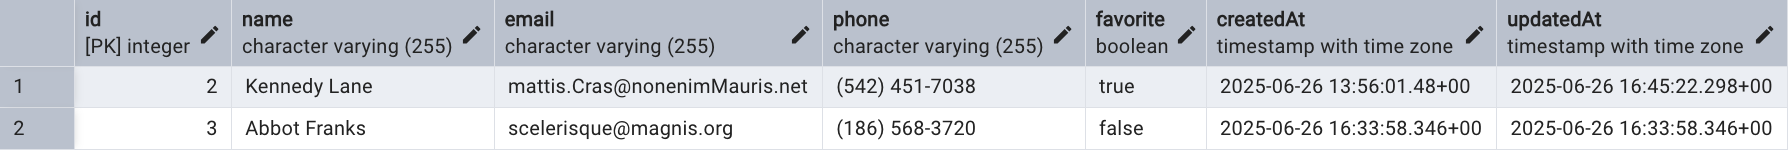
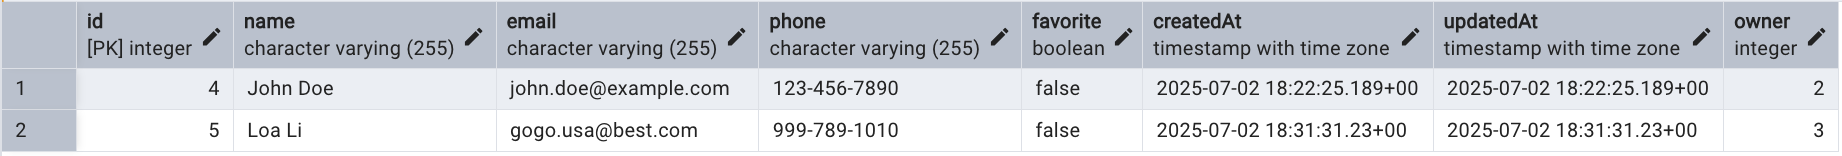
add auth middleware, logout, and current user endpoints

diff --git a/controllers/contactsControllers.js b/controllers/contactsControllers.js
@@ -9,22 +9,25 @@ import HttpError from "../helpers/HttpError.js";
 import controllerWrapper from "../helpers/controllerWrapper.js";
 
 const getAllContacts = async (req, res) => {
-  const contacts = await Contact.findAll();
-  res.status(200).json(contacts);
+  const { id: owner } = req.user;
+  const result = await Contact.findAll({ where: { owner } });
+  res.json(result);
 };
 
 const getOneContact = async (req, res) => {
   const { id } = req.params;
-  const contact = await Contact.findByPk(id);
-  if (!contact) {
+  const { id: owner } = req.user;
+  const result = await Contact.findOne({ where: { id, owner } });
+  if (!result) {
     throw HttpError(404, "Not found");
   }
-  res.status(200).json(contact);
+  res.json(result);
 };
 
 const deleteContact = async (req, res) => {
   const { id } = req.params;
-  const contact = await Contact.findByPk(id);
+  const { id: owner } = req.user;
+  const contact = await Contact.findOne({ where: { id, owner } });
   if (!contact) {
     throw HttpError(404, "Not found");
   }
@@ -38,7 +41,8 @@ const createContact = async (req, res) => {
     throw HttpError(400, error.message);
   }
   const { name, email, phone } = req.body;
-  const newContact = await Contact.create({ name, email, phone });
+  const { id: owner } = req.user;
+  const newContact = await Contact.create({ name, email, phone, owner });
   res.status(201).json(newContact);
 };
 
@@ -51,7 +55,8 @@ const updateContact = async (req, res) => {
     throw HttpError(400, error.message);
   }
   const { id } = req.params;
-  const contact = await Contact.findByPk(id);
+  const { id: owner } = req.user;
+  const contact = await Contact.findOne({ where: { id, owner } });
   if (!contact) {
     throw HttpError(404, "Not found");
   }
@@ -66,8 +71,9 @@ const updateStatusContact = async (req, res) => {
   }
   const { id } = req.params;
   const { favorite } = req.body;
+  const { id: owner } = req.user;
 
-  const contact = await Contact.findByPk(id);
+  const contact = await Contact.findOne({ where: { id, owner } });
 
   if (!contact) {
     throw HttpError(404, "Not found");

diff --git a/routes/contactsRouter.js b/routes/contactsRouter.js
@@ -1,18 +1,21 @@
 import express from "express";
+import authenticate from "../middleware/authenticate.js";
 import contactsController from "../controllers/contactsControllers.js";
 
-const contactsRouter = express.Router();
+const router = express.Router();
 
-contactsRouter.get("/", contactsController.getAllContacts);
+router.use(authenticate);
 
-contactsRouter.get("/:id", contactsController.getOneContact);
+router.get("/", contactsController.getAllContacts);
 
-contactsRouter.delete("/:id", contactsController.deleteContact);
+router.get("/:id", contactsController.getOneContact);
 
-contactsRouter.post("/", contactsController.createContact);
+router.delete("/:id", contactsController.deleteContact);
 
-contactsRouter.put("/:id", contactsController.updateContact);
+router.post("/", contactsController.createContact);
 
-contactsRouter.patch("/:id/favorite", contactsController.updateStatusContact);
+router.put("/:id", contactsController.updateContact);
 
-export default contactsRouter;
+router.patch("/:id/favorite", contactsController.updateStatusContact);
+
+export default router;

diff --git a/middleware/authenticate.js b/middleware/authenticate.js
@@ -1,0 +1,30 @@
+import jwt from "jsonwebtoken";
+import User from "../db/Users.js";
+import HttpError from "../helpers/HttpError.js";
+
+const { JWT_SECRET } = process.env;
+
+const authenticate = async (req, res, next) => {
+  const { authorization = "" } = req.headers;
+  const [bearer, token] = authorization.split(" ");
+
+  if (bearer !== "Bearer" || !token) {
+    return next(HttpError(401, "Not authorized"));
+  }
+
+  try {
+    const { id } = jwt.verify(token, JWT_SECRET);
+    const user = await User.findByPk(id);
+
+    if (!user || user.token !== token) {
+      return next(HttpError(401, "Not authorized"));
+    }
+
+    req.user = user;
+    next();
+  } catch (error) {
+    next(HttpError(401, "Not authorized"));
+  }
+};
+
+export default authenticate;

diff --git a/controllers/authControllers.js b/controllers/authControllers.js
@@ -69,7 +69,23 @@ const login = async (req, res) => {
   });
 };
 
+const logout = async (req, res) => {
+  const { id } = req.user;
+  await User.update({ token: null }, { where: { id } });
+  res.status(204).send();
+};
+
+const getCurrent = async (req, res) => {
+  const { email, subscription } = req.user;
+  res.json({
+    email,
+    subscription,
+  });
+};
+
 export default {
   register: controllerWrapper(register),
   login: controllerWrapper(login),
+  logout: controllerWrapper(logout),
+  getCurrent: controllerWrapper(getCurrent),
 };

diff --git a/routes/authRouter.js b/routes/authRouter.js
@@ -1,9 +1,12 @@
 import express from "express";
 import authController from "../controllers/authControllers.js";
+import authenticate from "../middleware/authenticate.js";
 
 const authRouter = express.Router();
 
 authRouter.post("/register", authController.register);
 authRouter.post("/login", authController.login);
+authRouter.post("/logout", authenticate, authController.logout);
+authRouter.get("/current", authenticate, authController.getCurrent);
 
 export default authRouter;

diff --git a/README.md b/README.md
@@ -2,12 +2,14 @@
 
 Цей проєкт — простий REST API для роботи з контактами на Node.js.
 
-![Приклад бази даних](./contacts.png "Контакти")
+![Приклад бази користувачів](./users.png "Користувачі")
+![Приклад бази контактів](./contacts.png "Контакти")
 
 ## Основні можливості
 
 - CRUD-операції через REST API:
-  - **GET /api/contacts** — отримати всі контакти
+
+  - **GET /api/contacts** — отримати всі контакти (потрібен `Authorization` заголовок)
   - **GET /api/contacts/:id** — отримати контакт за id
   - **POST /api/contacts** — створити новий контакт (поля: name, email, phone)
   - **PUT /api/contacts/:id** — оновити контакт (можна будь-яке з полів)
@@ -20,6 +22,8 @@
 
 - **POST /api/auth/register** — реєстрація нового користувача (поля: email, password)
 - **POST /api/auth/login** — логін існуючого користувача (поля: email, password)
+- **POST /api/auth/logout** — логаут (потрібен `Authorization` заголовок)
+- **GET /api/auth/current** — отримання даних поточного користувача (потрібен `Authorization` заголовок)
 
 ## Валідація
 
